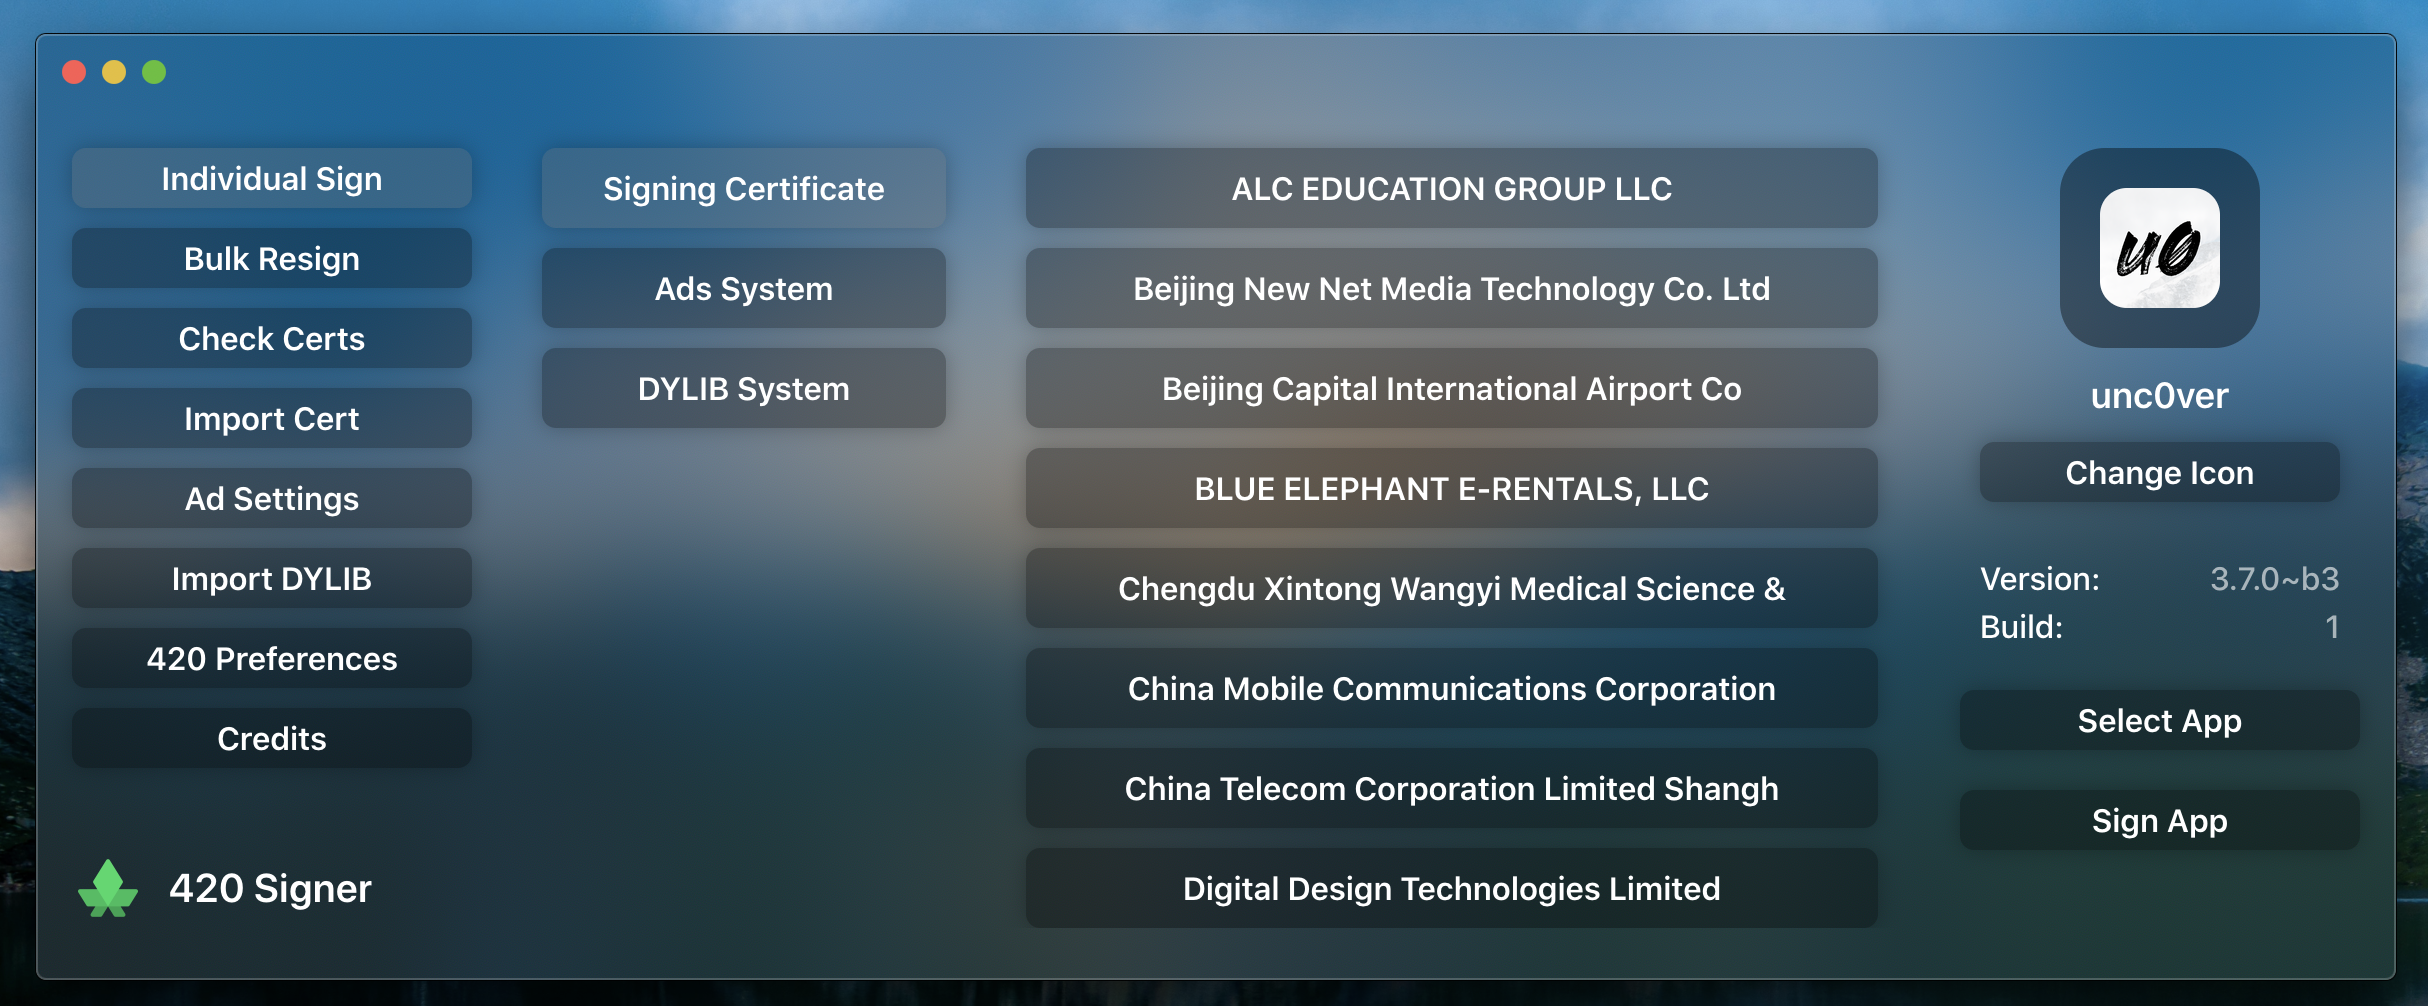
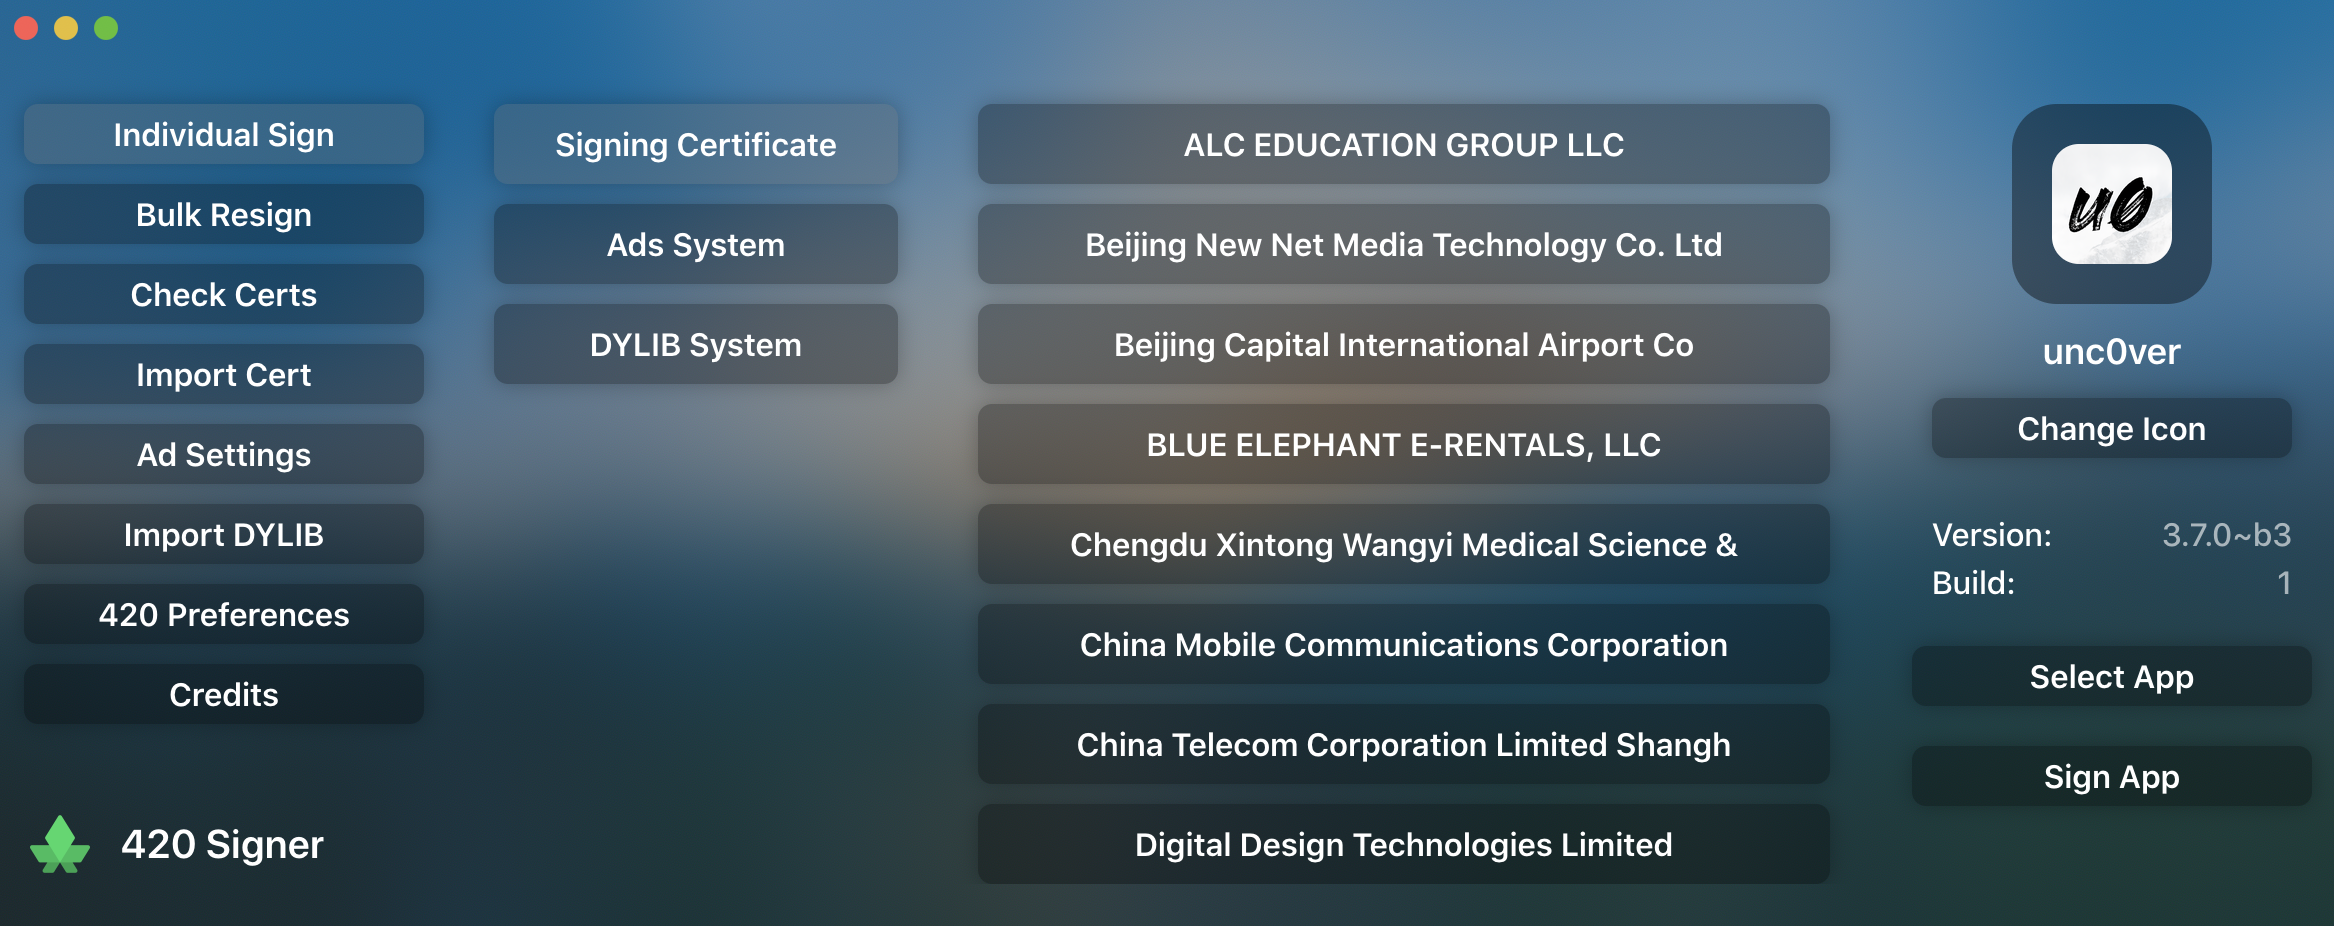
Styling

diff --git a/README.md b/README.md
@@ -9,6 +9,7 @@
 
 <h4 align="center">A powerful cross-platform signing utility built on top of <a href="https://github.com/zhlynn/zsign" target="_blank">zSign</a>.</h4>
 
+<img src="https://raw.githubusercontent.com/JosephShenton/420Signer/master/branding/signingPage.png" style="border-radius: 10px;">
 <!--
 <p align="center">
   <a href="#key-features">Key Features</a> •
@@ -18,9 +19,7 @@
   <a href="#related">Related</a> •
   <a href="#license">License</a>
 </p>
---> 
- ![screenshot](https://raw.githubusercontent.com/JosephShenton/420Signer/master/branding/signingPage.png)
-<!-- 
+
 ## Key Features
 
 * LivePreview - Make changes, See changes
